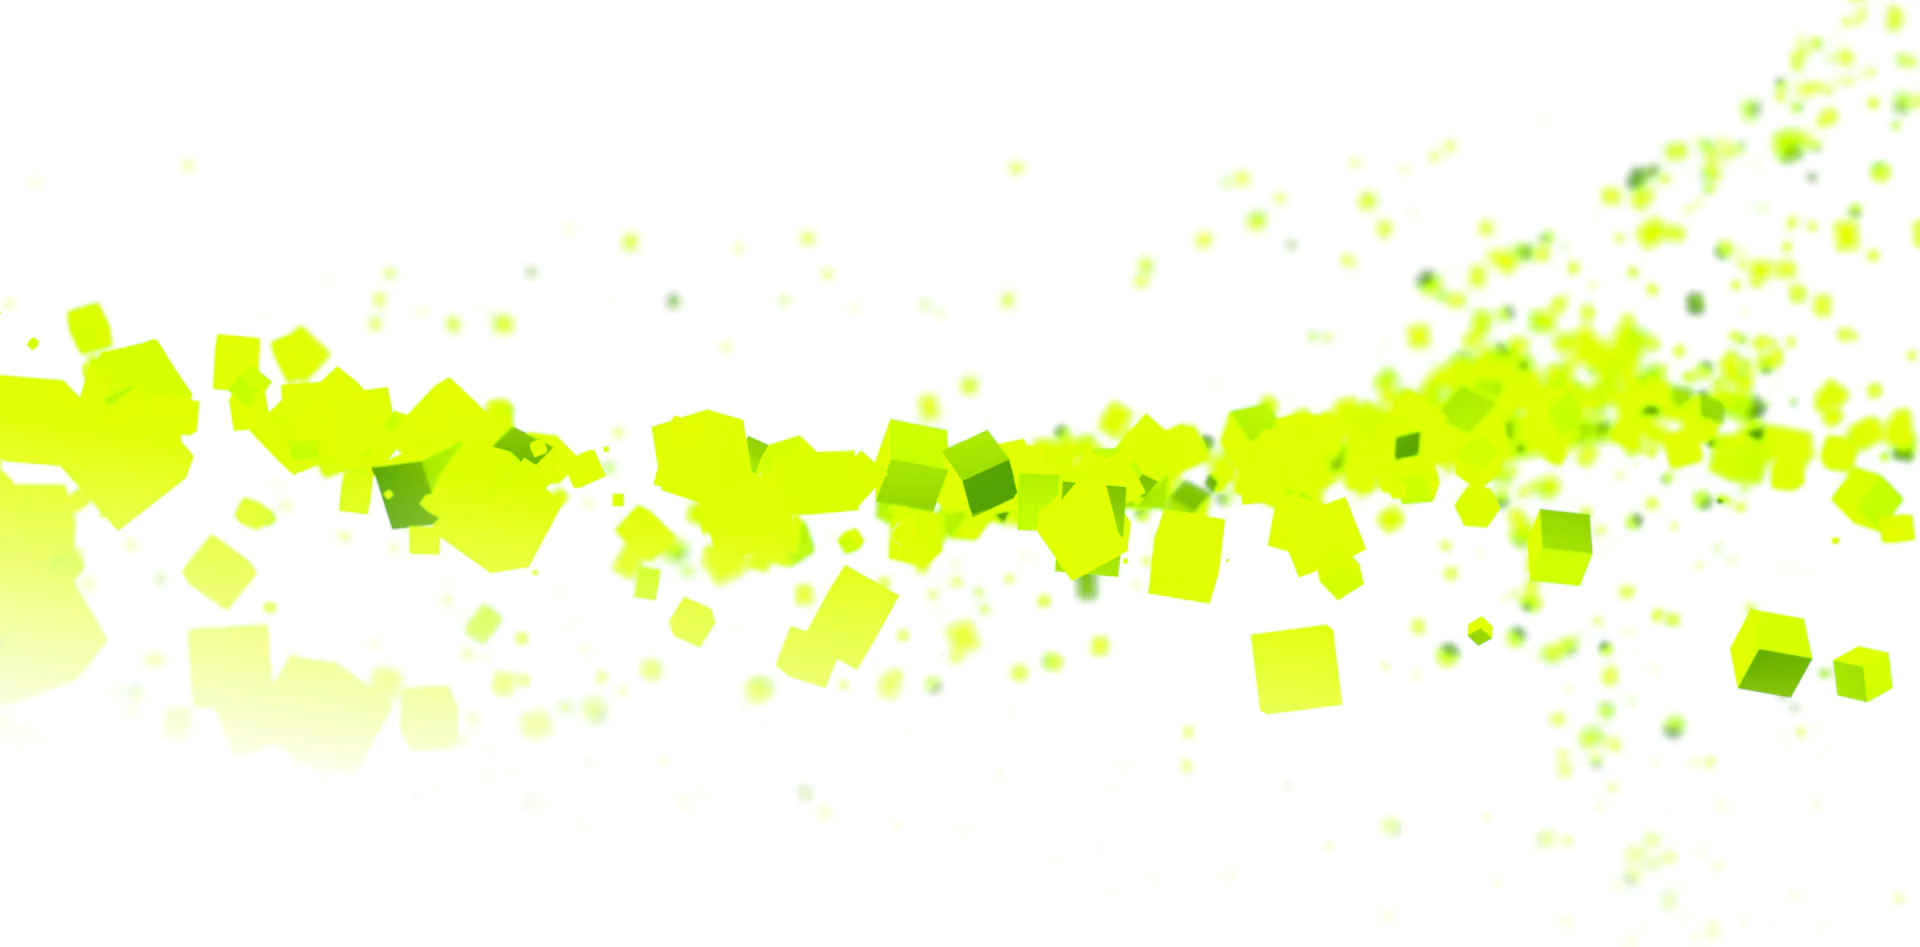
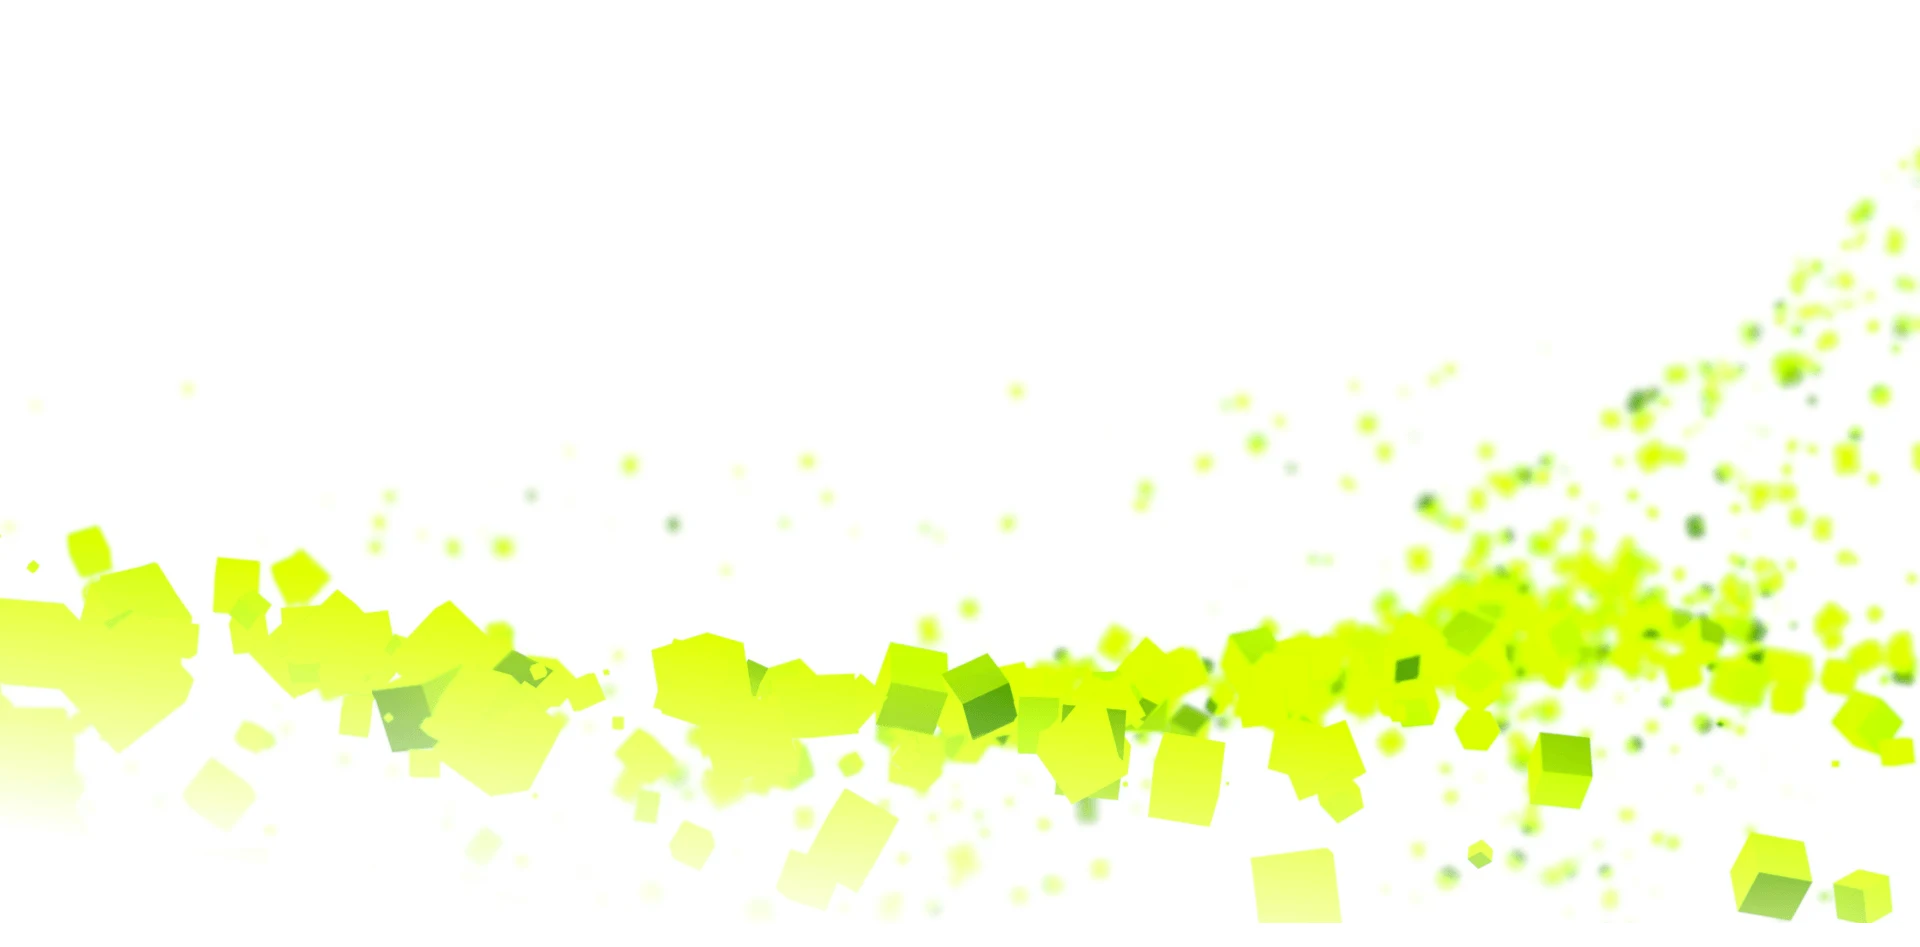
Final Touches

diff --git a/src/components/pages/Solutions.jsx b/src/components/pages/Solutions.jsx
@@ -6,59 +6,66 @@ const Solutions = () => {
   return (
     <div>
       <div 
-        className="sm:block hidden w-full min-h-[90vh] bg-cover md:bg-top bg-bottom bg-no-repeat" 
+        className="sm:block hidden w-full min-h-[90vh] bg-cover bg-no-repeat bg-top" 
         style={{ backgroundImage: `url(${heroTech})` }}
       >
-        <section className="px-6 xl:px-16 flex flex-col min-h-[90vh] gap-2">
+        <section className="px-6 xl:px-16 flex flex-col min-h-[70vh] gap-2">
           {/* Spacer to push content down */}
           <div className="flex-grow"></div> 
 
-          <div className="text-head text-3xl sm:text-3xl md:text-4xl font-bold text-left leading-[1]">
+          <div className="text-head xl:text-[2.5rem] text-3xl font-bold text-left leading-[1]">
             Seamless <span className="text-brand">Energy Resilience</span> <br/>for a Changing World
           </div>
-          <div className="w-fit flex flex-col font-medium lg:text-xl md:text-base text-base text-left text-text tracking-tight">
+          <div className="w-fit flex flex-col font-medium lg:text-xl md:text-base text-base text-left text-text tracking-tight mb-12">
             Energy backup is essential in an unpredictable world. Our metal-air technology<br/>provides on-demand, long-duration backup for continuous operations.
           </div> 
+
+          {/* Spacer to push content down */}
+          <div className="flex-grow"></div> 
         </section>
       </div>
 
       <div 
-        className="sm:hidden block w-full min-h-[95vh] bg-cover bg-no-repeat" 
-        style={{ backgroundImage: `url(${heroTechSmall})` }}
+        className="sm:hidden block w-full min-h-[90vh] bg-cover bg-top bg-no-repeat" 
+        style={{ backgroundImage: `url(${heroTech})` }}
       >
+        <section className="px-6 xl:px-16 flex flex-col min-h-[70vh] justify-start  gap-2">
+          {/* Spacer to push content down */}
+          <div className="flex-grow"></div> 
 
-        <section className='px-6 xl:px-16 flex flex-col min-h-[95vh] justify-start gap-2'>
-            <div className="flex-grow"></div> 
-            <div className='text-head text-3xl leading-[1] font-bold text-left'>
-            Seamless <span className='text-brand'>Energy Resilience</span> for a Changing World
-            </div>
-            <div className='w-fit flex flex-col font-medium text-base text-left text-text tracking-tight'>
-            Energy backup is essential in an unpredictable world. Our metal-air technology provides on-demand, long-duration backup for continuous operations.
-            </div> 
+          <div className="text-head xl:text-[2.5rem] text-3xl font-bold text-left leading-[1]">
+            Seamless <span className="text-brand">Energy Resilience</span> <br/>for a Changing World
+          </div>
+          <div className="w-fit flex flex-col font-medium lg:text-xl md:text-base text-base text-left text-text tracking-tight mb-12">
+            Energy backup is essential in an unpredictable world. Our metal-air technology<br className='sm:block hidden'/>provides on-demand, long-duration backup for continuous operations.
+          </div> 
+
+          {/* Spacer to push content down */}
+          <div className="flex-grow"></div> 
         </section>
       </div>
 
       <section className='px-6 xl:px-16 xl:pt-16 pt-12 sm:pt-28 flex flex-col gap-3 items-start mb-10 sm:mb-12 w-full '>
         <div className='bg-brand p-2 sm:w-28 w-16 rounded-full'></div>
         <h1 className="text-head text-2xl leading-[1] sm:text-4xl xl:text-5xl font-bold text-left mt-2 sm:mt-4 mb-6 ">
-        <span className='text-brand'>Instant, Reliable Power</span> When<br/>Failure Is Not an Option
+        <span className='text-brand'>Instant Reliable Power</span> When<br/>Failure Is Not an Option
         </h1>
         <div className='flex flex-col gap-2 sm:gap-4 w-full'>
-            <div className='rounded-3xl flex flex-row items-center gap-16  max-w-[1000px] shadow-[0_15px_80px_rgba(120,121,121,0.3)] '>
-              <img className='rounded-lg overflow-hidden h-[250px] sm:h-[500px] aspect-square object-cover' src={img7} />
-              <div className='py-4'>
+            <div className='rounded-3xl flex flex-col lg:flex-row items-center gap-4 sm:gap-16  max-w-[1000px] shadow-[0_15px_80px_rgba(120,121,121,0.3)] px-6 py-4'>
+              <img className='rounded-lg overflow-hidden h-[250px] sm:h-[500px] aspect-square object-cover' src={img6} />
+              <div className='py-4 w-full items-start flex flex-col'>
                 <h1 className='text-brand font-semibold text-xl sm:text-3xl xl:text-4xl'>Power Generation Capsule</h1>
                 <h2 className='text-head font-semibold text-base sm:text-xl pb-3'>200W - 1000W</h2>
                 <h3 className='text-text font-medium text-sm sm:text-xl sm:leading-[1.6rem] tracking-tight'>15+ hours of portable noise free energy backup.<br/>Suitable for remote, hard to reach areas.</h3>
-              </div>`
+              </div>
             </div>
-            <div className='rounded-3xl overflow-hidden flex flex-row items-center gap-16 max-w-[1000px] shadow-[0_15px_80px_rgba(120,121,121,0.3)] self-end'>
-              <img className='rounded-lg h-[250px] sm:h-[500px] aspect-square object-cover' src={img6} />
-              <div className='py-4'>
+            <div className='rounded-3xl overflow-hidden flex flex-col lg:flex-row items-center gap-4 sm:gap-16 max-w-[1000px] shadow-[0_15px_80px_rgba(120,121,121,0.3)] lg:self-end px-6 py-4'>
+              <img className='rounded-lg h-[250px] sm:h-[500px] aspect-square object-cover' src={img7} />
+              <div className='py-4 w-full items-start flex flex-col'>
                 <h1 className='text-brand font-semibold text-xl sm:text-3xl xl:text-4xl'>Aluminum Air Gensets</h1>
                 <h2 className='text-head font-semibold text-base sm:text-xl pb-3'>1000W - 5000W</h2>
                 <h3 className='text-text font-medium text-sm sm:text-xl sm:leading-[1.6rem] tracking-tight'>Set & Forget reliable energy backup for<br/>upto 100 hours.</h3>
-              </div>`
+              </div>
             </div>
         </div>
         <NavLink 

diff --git a/src/components/pages/Technology.jsx b/src/components/pages/Technology.jsx
@@ -6,14 +6,14 @@ const Technology = () => {
     <div>
       <section className='xl:mr-16 px-6 sm:px-12 xl:px-16 pt-48 sm:pt-56 flex lg:flex-row flex-col justify-center items-center gap-1 sm:gap-12 xl:gap-16'>
         <div className='flex flex-row gap-1 mb-20 basis-1/2 justify-end'>
-          <div><img src={cogen} className='w-20 h-[16rem] sm:w-24 sm:h-[20rem] object-cover object-[40%_30%] rounded-xl mt-12'/></div>
-          <div><img src={elec} className='w-20 h-[20rem] sm:w-24 sm:h-[24rem] object-cover object-[70%_80%] rounded-xl -mt-20'/></div>
-          <div><img src={elec2} className='w-20 h-[18rem] sm:w-24 sm:h-[22rem] object-cover object-[50%_10%] rounded-xl mt-20'/></div>
-          <div><img src={carbon} className='w-20 h-[16rem] sm:w-24 sm:h-[20rem] object-cover object-[30%_20%] rounded-xl -mt-4'/></div>
+          <div><img src={cogen} className='w-20 h-[16rem] sm:w-32 sm:h-[20rem] object-cover object-[40%_30%] rounded-xl mt-12'/></div>
+          <div><img src={elec} className='w-20 h-[20rem] sm:w-32 sm:h-[24rem] object-cover object-[70%_80%] rounded-xl -mt-20'/></div>
+          <div><img src={elec2} className='w-20 h-[18rem] sm:w-32 sm:h-[22rem] object-cover object-[50%_10%] rounded-xl mt-20'/></div>
+          <div><img src={carbon} className='w-20 h-[16rem] sm:w-32 sm:h-[20rem] object-cover object-[30%_20%] rounded-xl -mt-4'/></div>
         </div>   
         <div className='-mt-12 sm:-mt-28 flex flex-col gap-2 basis-1/2'>
           <div className='text-head text-3xl xl:text-[2.5rem] leading-[1] font-bold text-left'>
-            Engineering the Future of <br className='xl:block hidden'/><span className='text-brand'>Power Generation & Storage.</span>
+            Engineering the Future of <br className='xl:block hidden'/><span className='text-brand'>Energy Generation.</span>
           </div>
           <div className='w-fit pr-8 items-end flex flex-col  lg:text-lg font-medium xl:text-xl md:text-base text-base text-left text-text tracking-tight'>
           MEINE Electric pioneers metal-air fuel cells with <br className='xl:block hidden'/>advanced R&D, strong IP, and a focus on performance,<br className='xl:block hidden'/>scalability, and efficiency.
@@ -29,7 +29,7 @@ const Technology = () => {
         <div className='p-6 lg:p-16 w-full bg-white rounded-2xl flex flex-col lg:flex-row justify-center items-center gap-8 lg:gap-24'>
           <img src={alair} className='lg:w-1/2'/>
           <div className='items-end flex flex-col font-medium text-sm sm:text-base lg:text-lg xl:text-xl text-left text-text tracking-tight lg:w-1/2'>
-              Aluminum-air (Al-air) batteries generate electricity through the oxidation of aluminum at the anode, releasing electrons that flow through an external circuit to the cathode, where oxygen reduction occurs. This electrochemical process involves aluminum reacting with oxygen from the air in the presence of an electrolyte, resulting in the production of electricity. Aluminum-air batteries utilize abundant aluminum, producing energy without harmful emissions. Their recyclable design supports a sustainable, closed-loop energy system.
+              Aluminum-air (Al-air) batteries generate electricity through the oxidation of aluminum at the anode, releasing electrons that flow through an external circuit to the cathode, where oxygen reduction occurs.<br/><br/>This electrochemical process involves aluminum reacting with oxygen from the air in the presence of an electrolyte, resulting in the production of electricity. Aluminum-air batteries utilize abundant aluminum, producing energy without harmful emissions. Their recyclable design supports a sustainable, closed-loop energy system.
           </div> 
         </div>
       </section>
@@ -58,7 +58,7 @@ const Technology = () => {
           </div>
           
           <div className='shadow-[0_15px_80px_rgba(120,121,121,0.1)] py-8 px-4 rounded-2xl w-full sm:max-w-[500px] md:max-w-[700px] '>
-            <div className='text-2xl font-semibold text-brand'>Endless Energy, Minimal Logistics</div>
+            <div className='text-2xl font-semibold text-brand'>No Fuel Logistics</div>
             <div className='text-xs sm:text-base text-text font-medium'>Reduces dependency on frequent fuel deliveries by offering a low-maintenance, efficient power solution that simplifies logistics and long-term energy management.</div>
           </div>
           

diff --git a/src/components/pages/Company.jsx b/src/components/pages/Company.jsx
@@ -45,10 +45,10 @@ const Company = () => {
   return (
     <div>
       <section px-6 
-        className="px-6 xl:px-16 pt-[24rem] mt-[6rem] md:mt-[5.4rem] lg:mt-[5.5rem] xl:mt-28 flex flex-col justify-start font-bold text-5xl items-start text-white bg-cover bg-center pb-10" 
+        className="px-6 xl:px-16 pt-[24rem]  mt-[6rem] md:mt-[5.4rem] lg:mt-[5.5rem] xl:mt-28 flex flex-col justify-start font-bold text-5xl items-start text-white bg-cover bg-center pb-10" 
         style={{ backgroundImage: `url(${companyHero})` }}
       >
-        <div className='text-white text-3xl md:text-4xl font-bold text-left leading-[1] rounded-lg mb-2'>
+        <div className='text-white text-3xl xl:text-[2.5rem] font-bold text-left leading-[1] rounded-lg mb-2'>
           A Single Cell Cannot Power<br className='md:block hidden'/>
           <span className='text-brand'> The World</span> Alone
         </div>
@@ -57,18 +57,17 @@ const Company = () => {
         </div> 
       </section>
 
-      <section className='px-6 xl:px-16 xl:pt-16 pt-12 sm:pt-28 flex flex-col gap-3 items-start mb-10 sm:mb-12 w-full '>
+      <section className='px-6 xl:px-16 xl:pt-16 pt-12 sm:pt-28 flex flex-col gap-3 items-start mb-0 sm:mb-12 w-full '>
         <div className='bg-brand p-2 sm:w-28 w-16 rounded-full'></div>
         <h1 className="text-head text-2xl leading-[1] sm:text-4xl xl:text-5xl font-bold text-left mt-2 ">
-          About <span className='text-brand'>Meine</span>
+          About <span className='text-brand'>Meine Electric</span>
         </h1>
         <div className='text-text font-medium text-sm sm:text-xl sm:leading-[1.6rem] tracking-tight max-w-[850px] mt-2'>
-        MEINE Electric, founded in 2022 by Priyansh Mohan and Stuti Kakkar, specializes in metal-air fuel cells and renewable energy solutions. Focused on sustainable technology, the company offers efficient and environmentally friendly energy storage systems.  
-        </div>        
+        MEINE Electric was founded in 2022 by Priyansh Mohan and Stuti Kakkar with a bold vision — to reimagine energy systems for a decentralized, secure, and sustainable future.<br/><br/>Our journey began with a simple yet powerful belief: that the world needs radically better energy solutions to unlock the full potential of renewables and reduce dependence on fossil fuels. From this idea, MEINE Electric has rapidly grown into a powerhouse of innovation, bringing together some of the best minds from across the globe — engineers, scientists, and industry leaders with decades of experience in energy, electrochemistry, and advanced materials.        </div>        
         <div className='flex flex-col lg:flex-row mt-2 md:items-end self-start '>
           <img 
             src={img5} 
-            className='max-w-[800px] rounded-2xl '
+            className='max-w-[800px] w-full shrink rounded-2xl '
           />
           {/* <NavLink to='/Newsroom' className='text-sm sm:text-lg font-semibold text-text md:text-right text-center p-2 rounded-md md:self-end hover:underline cursor-pointer'>
             <div>Check Our Newsroom For Latest News</div>
@@ -81,7 +80,7 @@ const Company = () => {
         <h1 className="text-head text-2xl leading-[1] sm:text-4xl xl:text-5xl font-bold text-left mt-2 ">
           <span className='text-brand'>Join us</span> to make a <br/>change to this world
         </h1>
-        <div className='text-text font-medium text-base lg:text-lg xl:text-xl xl:leading-[1.6rem] tracking-tight mb-8'>
+        <div className='text-text font-medium text-base lg:text-lg xl:text-xl xl:leading-[1.6rem] tracking-tight mb-4'>
         Joining forces, we can address pressing global challenges,promote sustainability, <br className='hidden sm:block'/>and create a brighter future for all.
         </div> 
         <form className='px-2 py-8 w-full sm:py-12 sm:px-8 rounded-xl shadow-[0_15px_80px_rgba(120,121,121,0.3)]'
@@ -103,7 +102,7 @@ const Company = () => {
           
           <textarea
             className="w-full p-4 rounded-lg bg-[#D9D9D9] opacity-[73%] focus:outline-none mb-8"
-            rows="12"
+            rows="6"
             placeholder="Enter your message"
             required
           >

diff --git a/src/components/pages/Contact.jsx b/src/components/pages/Contact.jsx
@@ -1,4 +1,5 @@
 import React from 'react'
+import {link, ig} from '../../assets'
 
 const Contact = () => {
   return (
@@ -20,17 +21,11 @@ const Contact = () => {
               </div>
             </div>
           </div> 
-          <div className='flex flex-col gap-4 text-xl xl:text-2xl font-semibold'>
+          <div className='flex flex-col gap-4 text-xl xl:text-2xl font-semibold '>
             <h1>Socials</h1>
-            <div className='text-text grid grid-cols-1 text-base xl:text-lg font-medium text-content'>
-              <div className='hover:underline'>Linkedin</div>
-              <div className='hover:underline'>Instagram</div>
-            </div>
-          </div>
-          <div className='flex flex-col gap-4 text-xl xl:text-2xl font-semibold'>
-            <h1>Contact</h1>
-            <div className='text-text grid grid-cols-1 text-base xl:text-lg font-medium text-content'>
-              <div className='hover:underline'>+91 79812 53458</div>
+            <div className='text-text grid grid-cols-2 text-base xl:text-lg font-medium text-content w-fit -ml-1'>
+              <a target='_blank' href='https://www.instagram.com/meineelectric/' className='hover:underline'><img src={link} className='h-10 opacity-45 hover:opacity-100'/></a>
+              <a target='_blank' href='https://www.linkedin.com/company/meineelectric/posts/?feedView=all'  className='hover:underline'><img src={ig} className='h-10 opacity-45 hover:opacity-100'/></a>
             </div>
           </div>
         </div>
@@ -49,7 +44,6 @@ const Contact = () => {
       <div className='xl:px-16 px-6 mb-8 sm:mb-12 flex flex-col justify-end items-end w-full mt-8'>
         <div className='bg-brand w-16 p-2 sm:w-28 rounded-full'></div>
       </div>
-
     </div>
   )
 }

diff --git a/src/components/Footer.jsx b/src/components/Footer.jsx
@@ -44,11 +44,6 @@ const Footer = () => {
                     </NavLink>
                     <div className='flex flex-row gap-4'>
                         <div className='flex flex-row xl:bg-[#2b2b2b] bg-transparent rounded-md font-semibold py-3 px-5 text-sm items-center gap-2'>
-                            <img src={phone} className='xl:h-5 sm:h-7 h-5'/>
-                            <div className='text-[0.6rem] xl:text-xs sm:text-sm text-text tracking-tight whitespace-nowrap'>+91 79812 53458</div>
-                        </div>
-
-                        <div className='flex flex-row xl:bg-[#2b2b2b] bg-transparent rounded-md font-semibold py-3 px-5 text-sm items-center gap-2'>
                             <img src={email} className='xl:h-5 sm:h-7 h-5'/>
                             <div className='text-[0.6rem] xl:text-xs sm:text-sm text-text tracking-tight whitespace-nowrap'>contact@meineelectric.com</div>
                         </div>

diff --git a/src/assets/index.js b/src/assets/index.js
@@ -27,6 +27,8 @@ import img7 from './images/7.webp'
 import email from './icons/Email.png'
 import phone from './icons/Phone.png'
 import menu from './icons/Menu.png'
+import ig from './icons/Instagram.png'
+import link from './icons/Linkedin.png'
 
 import news1 from './news/N1.webp'
 import news2 from './news/N2.webp'
@@ -77,5 +79,7 @@ export{
     news7,
     news8,
     news9,
-    news10
+    news10,
+    ig,
+    link
 }
